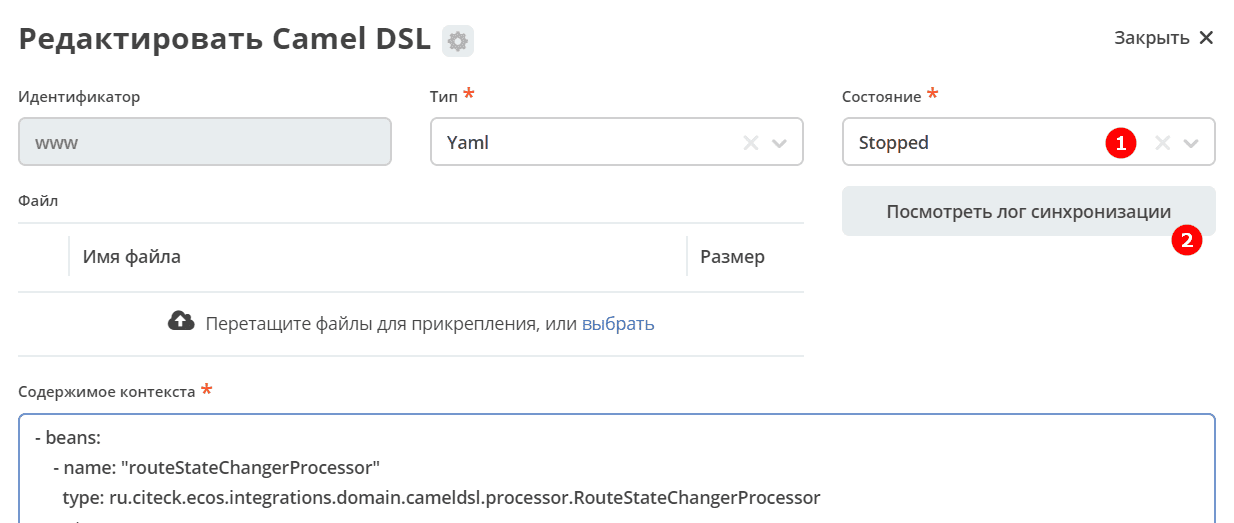
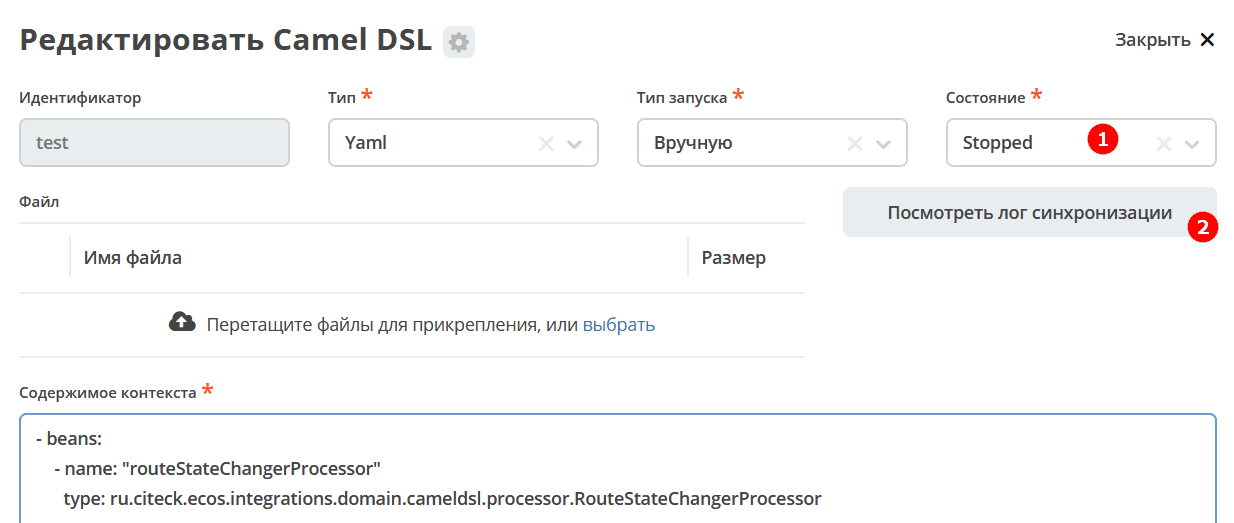
ECOSUI-3194
ECOSUI-3194 Importing files into the system for the user

diff --git a/docs/integration/Camel_DSL/examples.rst b/docs/integration/Camel_DSL/examples.rst
@@ -4,8 +4,8 @@
 .. contents::
    :depth: 3
 
-Импорт данных из Excel в Citeck
-----------------------------------
+Локальный импорт данных из Excel в Citeck
+---------------------------------------------
 
 .. _Excel-import:
 
@@ -309,3 +309,75 @@ http://host/gateway/integrations/pub/webhook/bitrix24-webhook?token=testAuthToke
        :align: center 
 
 5. :ref:`Запустить<camel_dsl_actions>` в Camel DSL синхронизации **bitrix24-crm-in-sync**, **bitrix24-crm-out-sync**.
+
+Глобальный импорт данных
+---------------------------
+
+.. _data_import:
+
+Возможность добавить в журнал нужного типа кнопку **«Импорт»**. При нажатии на которую появляется список возможных вариантов, где пользователь сначала выгружает шаблон в Excel, заполняет данные и загружает файл в Систему. 
+
+После окончания обработки файла пользователю выводится сообщение о завершении процесса и статус (Успех/Ошибка) и в системе создаются карточки определенного типа.
+
+Для настройки Импорта данных необходимо выполнить следующие шаги:
+
+**1)**	Создать Camel DSL с Типом запуска IMPORT_DATA и описать в нем процесс обработки файла 
+
+.. image:: _static/examples/import_01.png
+       :width: 600
+       :align: center 
+
+Пример конфига для импорта данных:
+
+.. code-block::
+
+  ---
+    - route:
+        from:
+          uri: "ecos-excel-stream-read:{{inputFileRef}}"
+          parameters:
+            batchSize: 10
+            customAttNames:
+                Название: title
+                Описание: description
+          steps:
+            - log:
+                message: "Import data ${body}"
+            - to: ecos-records-mutate:?sourceId=emodel/order-pass
+
+Конфиг импорта для варианта **«По умолчанию» - default-import-data** 
+
+При описании обработки файла в Camel DSL следует использовать endpoint **ecos-excel-stream-read**. Он предназначен для потокового чтения файла XLSX.
+
+Принимает на вход **recordRef** файла и ряд параметров:
+
+* **batchSize** - количество строк для обработки на каждой итерации (default = 100);
+* **sheetName** - имя листа в файле;
+* **headRowNumber** - номер строки, на которой начинается заголовок;
+* **customAttNames** - список маппинга заголовков.
+
+При запуске импорта в контексте Camel доступны параметры:
+
+* **inputFileRef** - recordRef файла, который передали в форму импорта;
+* **user** - recordRef пользователя, который запустил импорт;
+* **typeId** - localId типа данных.
+
+Если используется **default-import-data** вариант:
+
+* **sourceId** - sourceId из типа данных;
+*	**customAttNames** - Маппинг атрибутов из типов в виде {name: id, ......}
+*	**assocMapping** - список маппинга ассоциаций, который указали в аспекте
+
+**Тип запуска** необходимо выбрать **Импорт данных**. 
+
+**2)**	При необходимости приложить шаблон файла в Camel DSL
+
+Шаблон файла импорта для пользователя можно приложить в Camel DSL, тогда пользователь сможет его скачать при выборе варианта в журнале и заполнить.
+
+При сабмите формы импорта, создается отдельный instance Camel контекста, который был указан в варианте. Состояние инстанса можно отследить в журнале :ref:`Camel DSL Instance<camel_instance>` ``v2/admin?journalId=ecos-camel-dsl-instance-journal&type=JOURNAL`` 
+
+**3)**	Добавить в необходимый тип данных аспект **import-data-config (Импорт данных)** и настроить вариант, указав Camel DSL созданный на предыдущем пункте.
+
+
+
+

diff --git a/docs/settings_kb/Aspects.rst b/docs/settings_kb/Aspects.rst
@@ -331,3 +331,55 @@
 
 
 При выставленном чекбоксе **Отключить историю** при изменении никакие данные не будут записываться в **историю**, и отражаться в виджете **«История событий»**, соответственно.
+
+Импорт данных
+~~~~~~~~~~~~~~~
+
+.. _import-data-config_aspect:
+
+Аспект **import-data-config (Импорт данных)** - необходим для настройки вариантов импорта данных.
+
+.. image:: _static/aspects/import-data-config_01.png
+      :width: 600
+      :align: center
+
+Форма настройки:
+
+.. image:: _static/aspects/import-data-config_02.png
+      :width: 600
+      :align: center
+
+* **id** - id варианта.
+* **Название** - название варианта, которое будет отображаться в журнале.
+* **Camel DSL** - Camel DSL с типом IMPORT_DATA, в котором описана обработка данных.
+* **Разрешен для** - можно указать группы или пользователей напрямую. Если оставить пустым, вариант будет доступен всем.
+
+Для типа данных может быть добавлено несколько конфигураций импорта.
+
+Созданные конфигурации будут доступны в журнале по кнопке **Импорт**:
+
+.. image:: _static/aspects/import-data-config_03.png
+      :width: 600
+      :align: center
+
+Вариант «По умолчанию»
+"""""""""""""""""""""""""
+
+.. image:: _static/aspects/import-data-config_04.png
+      :width: 600
+      :align: center
+
+Если вариант **«По умолчанию»** включен, можно указать **Маппинг для ассоциаций**.
+
+Указывается **атрибут** в Типе данных и **атрибут** в связанном типе, **для поиска**. Атрибутов для поиска может быть указано несколько.
+Если поле оставить пустым, то поиск будет вестись по системному атрибуту **_name**.
+
+.. note:: 
+
+      Шаблон для варианта **«По умолчанию»** формируется по журналу, в котором выполняется скачивание шаблона.
+
+      Если в типе присутствуют обязательные атрибуты, которых не в журнале, они будут добавлены в конец столбцов в шаблоне.
+
+      В шаблон не выгружаются системные, вычисляемые (созданные и в типе данных, и в журнале), вложенные поля.
+
+Для варианта «По умолчанию» добавлен универсальный CamelDSL **default-import-data**. 

diff --git a/docs/introduction/functions/data_import.rst b/docs/introduction/functions/data_import.rst
@@ -1,0 +1,66 @@
+Импорт данных
+===============
+
+Добавлена возможность импорта в систему файлов (Excel) по шаблону. В результате обработки данных в системе создаются карточки выбранного типа.
+
+Конфигураций импорта для одного журнала может быть несколько.
+
+Ниже рассмотрим конфигурацию по умолчанию. 
+
+В журнале нажмите кнопку **Импорт (1)**, на ней доступны варианты выбора **(2)**:
+
+.. image:: _static/import/ex_03_1.png
+       :width: 600
+       :align: center
+
+Нажмите **(3)** для скачивания шаблона Excel. Шаблон содержит все поля, заданные в журнале.
+
+.. image:: _static/import/ex_04.png
+       :width: 600
+       :align: center
+ 
+Заполните поля файла, сохраните:
+
+.. image:: _static/import/ex_05.png
+       :width: 600
+       :align: center
+ 
+Загрузите заполненный файл в систему:
+
+.. image:: _static/import/ex_06.png
+       :width: 600
+       :align: center
+ 
+В нижней части журнала будет показан прогресс обработки данных:
+
+.. image:: _static/import/ex_07_1.png
+       :width: 600
+       :align: center
+ 
+Если при загрузке данных произойдет ошибка, то будет выдано предупреждение.
+
+После окончания обработки файла система выдаст сообщение о завершении процесса и статус (Успех/Ошибка):
+
+.. list-table::
+      :widths: 20 20
+      :align: center
+
+      * - |
+
+            .. image:: _static/import/ex_10.png
+                  :width: 300
+                  :align: center
+
+        - |
+
+            .. image:: _static/import/ex_09.png
+                  :width: 300
+                  :align: center 	 
+
+Загруженные данные в журнале - созданные карточки:
+
+.. image:: _static/import/ex_08.png
+       :width: 600
+       :align: center
+
+Для создания своей конфигурации см. TBD

diff --git a/docs/settings_kb/ecos_applications.rst b/docs/settings_kb/ecos_applications.rst
@@ -240,7 +240,7 @@ Citeck приложения
 Настройка
 ~~~~~~~~~~~~~~~~~~
 
-1. Открыть журнал **«Секреты»** (/v2/admin?journalId=ecos-secrets&type=JOURNAL): 
+1. Открыть журнал **«Секреты»** ``/v2/admin?journalId=ecos-secrets&type=JOURNAL``: 
 
 .. image:: _static/apps/git_01.png
        :width: 700       
@@ -258,7 +258,7 @@ Citeck приложения
   
   При этом на форме создания секрета выбрать тип= Basic, ввести свой логин и вместо своего пароля ввести сгенерированный токен.
 
-2. Открыть журнал **«Конечные точки»** (/v2/admin?journalId=endpoints&type=JOURNAL) 
+2. Открыть журнал **«Конечные точки»** ``/v2/admin?journalId=endpoints&type=JOURNAL``
 
 .. image:: _static/apps/git_03.png
        :width: 700       
@@ -280,7 +280,7 @@ Citeck приложения
        :width: 400       
        :align: center
 
-3. Открыть журнал **«Приложения ECOS»** (/v2/admin?journalId=ecos-apps&type=JOURNAL) 
+3. Открыть журнал **«Приложения ECOS»** ``/v2/admin?journalId=ecos-apps&type=JOURNAL`` 
 
 .. image:: _static/apps/git_06.png
        :width: 700       
@@ -380,7 +380,7 @@ Citeck приложения
 Настройки конфигурации
 ~~~~~~~~~~~~~~~~~~~~~~~~
 
-Для настройки конфиграции необходимо открыть журнал **«Конфигурация ECOS»** (``v2/admin?journalId=ecos-configs&type=JOURNAL``):
+Для настройки конфиграции необходимо открыть журнал **«Конфигурация ECOS»** ``v2/admin?journalId=ecos-configs&type=JOURNAL``:
 
   .. image:: _static/apps/git_15.png
         :width: 700       

diff --git a/docs/integration/Camel_DSL/actions.rst b/docs/integration/Camel_DSL/actions.rst
@@ -1,5 +1,5 @@
 Действия, доступные с Camel DSL
-==================================
+================================
 
 .. _camel_dsl_actions:
 
@@ -7,16 +7,19 @@
        :width: 700
        :align: center
 
+|
+
 Помимо стандартных (скачать, удалить, редактировать) доступны дополнительные действия:
 
-**1a** / **1b** - Старт/Стоп для запуска и остановки контекста.
-
-**2** -  просмотр лога по последней синхронизации.
+* **1a** / **1b** - Старт/Стоп для запуска и остановки контекста.
+* **2** -  просмотр лога по последней синхронизации.
 
 Аналогично:
 
 .. image:: _static/actions/action_start.png
        :width: 600
        :align: center
+
+|
 
 Контекст после запуска сразу же останавливался если в нем больше никакой работы не выполняется (как в случае с импортом из файла).

diff --git a/docs/integration/Camel_DSL/context_instance.rst b/docs/integration/Camel_DSL/context_instance.rst
@@ -1,0 +1,26 @@
+Инстансы контекста Camel DSL
+==============================
+
+.. _camel_instance:
+
+Журнал содержит информацию запущенных отдельных инстансах Camel контекста импорта данных.
+
+Журнал доступен по адресу: ``v2/admin?journalId=ecos-camel-dsl-instance-journal&type=JOURNAL``
+
+.. image:: _static/instances/instance_01.png
+       :width: 600
+       :align: center    
+
+Подробная информация об инстансе:
+
+.. image:: _static/instances/instance_02.png
+       :width: 600
+       :align: center   
+
+Возможные состояния Camel DSL Instance:
+
+* **RUNNING** - Контекст запущен и выполняется работа
+* **STOPPED** - Контекст успешно выполнил работу и завершен
+* **ERROR**	- Во время выполнения произошла ошибка, контекст остановлен
+
+

diff --git a/docs/integration/Camel_DSL/RabbitMQ.rst b/docs/integration/Camel_DSL/RabbitMQ.rst
@@ -1,7 +1,7 @@
-Получение сообщений из RabbitMQ и отправка события ECOS
+Получение сообщений из RabbitMQ и отправка события Citeck
 =========================================================
 
-Пример чтения из rabbitmq и отправка события ECOS:
+Пример чтения из rabbitmq и отправка события Citeck:
 
 1. Создать новый **секрет (Интеграция - Credentials)** для подключения к RMQ.
 2. Создать новый **endpoint (Интеграция - Источники данных)** с id 'rabbitmq-endpoint'  (можно любой id, но в camel конфиге мы на него ссылаемся) для подключения к RMQ и устанавить секрет из п.1 в него.

diff --git a/docs/integration/Camel_DSL/overview.rst b/docs/integration/Camel_DSL/overview.rst
@@ -30,6 +30,11 @@ Camel использует доменные языки (Domain Specific Language
 
 |
 
+Тип запуска:
+
+* **MANUALLY** - Работает, как и обычный Camel DSL. Запускается и останавливается через действие.
+* **IMPORT_DATA** - Используется для описания обработки файла при Импорте данных
+
 .. note::
     Атрибут = свойство = поле
 

diff --git a/docs/integration/Camel_DSL/RabbitMQ_routing.rst b/docs/integration/Camel_DSL/RabbitMQ_routing.rst
@@ -1,4 +1,4 @@
-Чтение из RabbitMQ -> роутинг по jsonPath -> переотправка в ECOS Event + Dead Letter Queue
+Чтение из RabbitMQ -> роутинг по jsonPath -> переотправка в Citeck Event + Dead Letter Queue
 =============================================================================================
 
 .. code-block:: yaml

diff --git a/docs/integration/Camel_DSL.rst b/docs/integration/Camel_DSL.rst
@@ -11,6 +11,7 @@
     Camel_DSL/overview
     Camel_DSL/BD_selection
     Camel_DSL/actions
+    Camel_DSL/context_instance
     Camel_DSL/RecordsDaoEndpoint_connection
     Camel_DSL/BD_deletion
     Camel_DSL/RabbitMQ

diff --git a/docs/integration/Camel_DSL/subscription.rst b/docs/integration/Camel_DSL/subscription.rst
@@ -1,5 +1,5 @@
-Подписка на событие ECOS
-=========================
+Подписка на событие Citeck
+===========================
 
 .. code-block:: yaml
   
